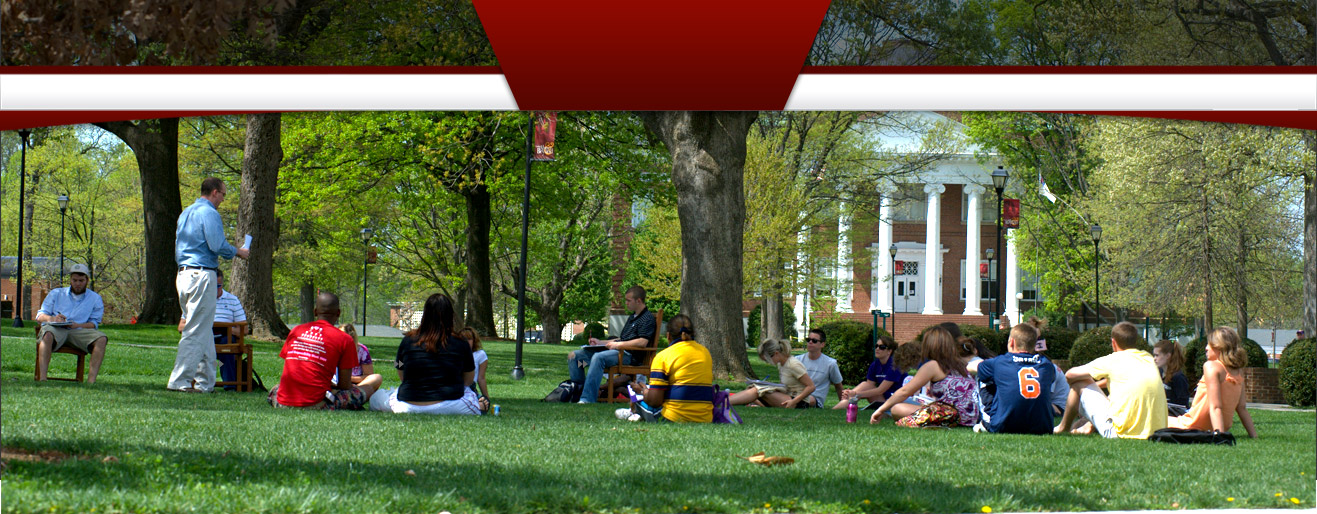
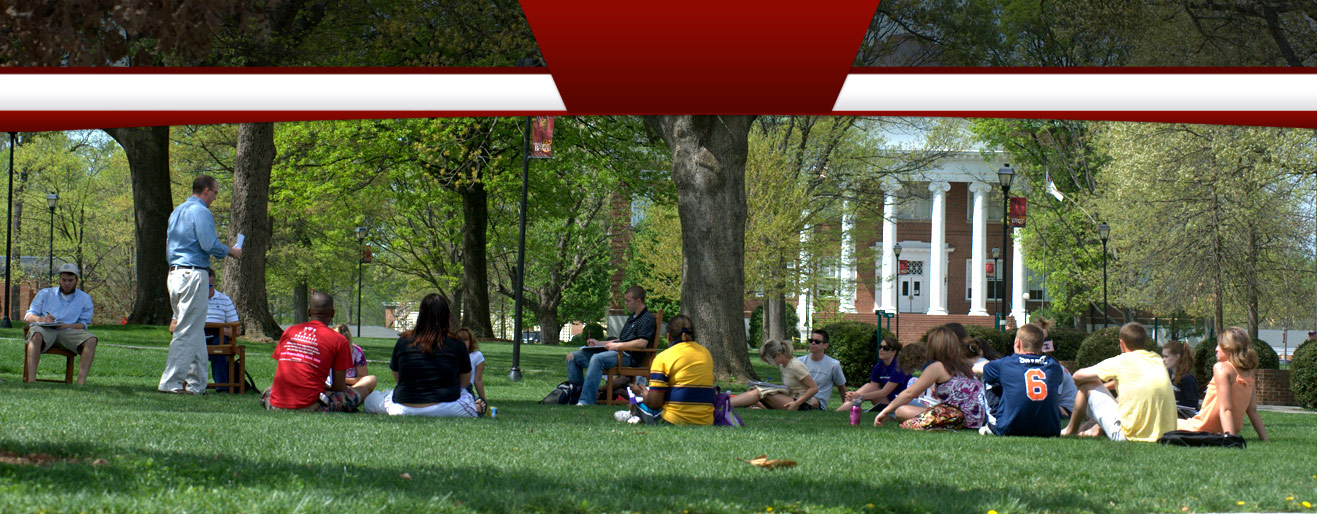
global and defaul-normal css changes
homepage and inner page top elements

diff --git a/www/sites/all/themes/lynchburg/css/lynchburg-alpha-default-normal.css b/www/sites/all/themes/lynchburg/css/lynchburg-alpha-default-normal.css
@@ -1,15 +1,14 @@
 /* This file will hold styles that are loaded using the same media query as the normal grid. */
 
 body {
-	background: url(../images/bg-body-top2.jpg) repeat-x top left;
+	background: url(../images/bg-body-top3.jpg) repeat-x top left;
 }
-
-
 .section-header {
+	width:1500px;
 	height:142px;
-	margin:0;
+	margin:0 auto;
 	padding:0;
-	background: transparent url(../images/bg-header-arch1.jpg) no-repeat top center;
+	background: transparent url(../images/bg-header-arch.jpg) no-repeat top center;
 }
 .front .section-header {
 	/* custom homepage background overrides the above default background ^ */
@@ -34,5 +33,5 @@ body {
 /*********************/
 
  body.front {
- 	background:#f9f9f9 url("../images/home/bg-stripe-home.jpg") repeat-x top left;
+ 	background:#f9f9f9 url("../images/home/bg-stripe-home1.jpg") repeat-x top left;
  }

diff --git a/www/sites/all/themes/lynchburg/css/global.css b/www/sites/all/themes/lynchburg/css/global.css
@@ -1551,17 +1551,17 @@ footer#section-footer li a:hover {
  */
  body.front div#page header#section-header {
  	margin:0 auto;
- 	width:1290px;
+ 	width:1500px;
  	height: 450px;
- 	background: #47515b url(../images/home/big-image.jpg) no-repeat top center;
+ 	background: #47515b url(../images/home/big-image2.jpg) no-repeat top center;
  }
  body.front section#section-content {
  	background: transparent url(../images/home/convex-curve.png) no-repeat top center;
- 	width:1290px;
+ 	width:1500px;
  	margin:0 auto;
- 	margin-top:-25px;
+ 	margin-top:-22px;
  }
- body.front #page header { width:1290px; margin:0 auto; 
+ body.front #page header { width:1500px; margin:0 auto; 
  }
  body.front section#secton-content .zone-content-wrapper {
  	margin:0 auto;
